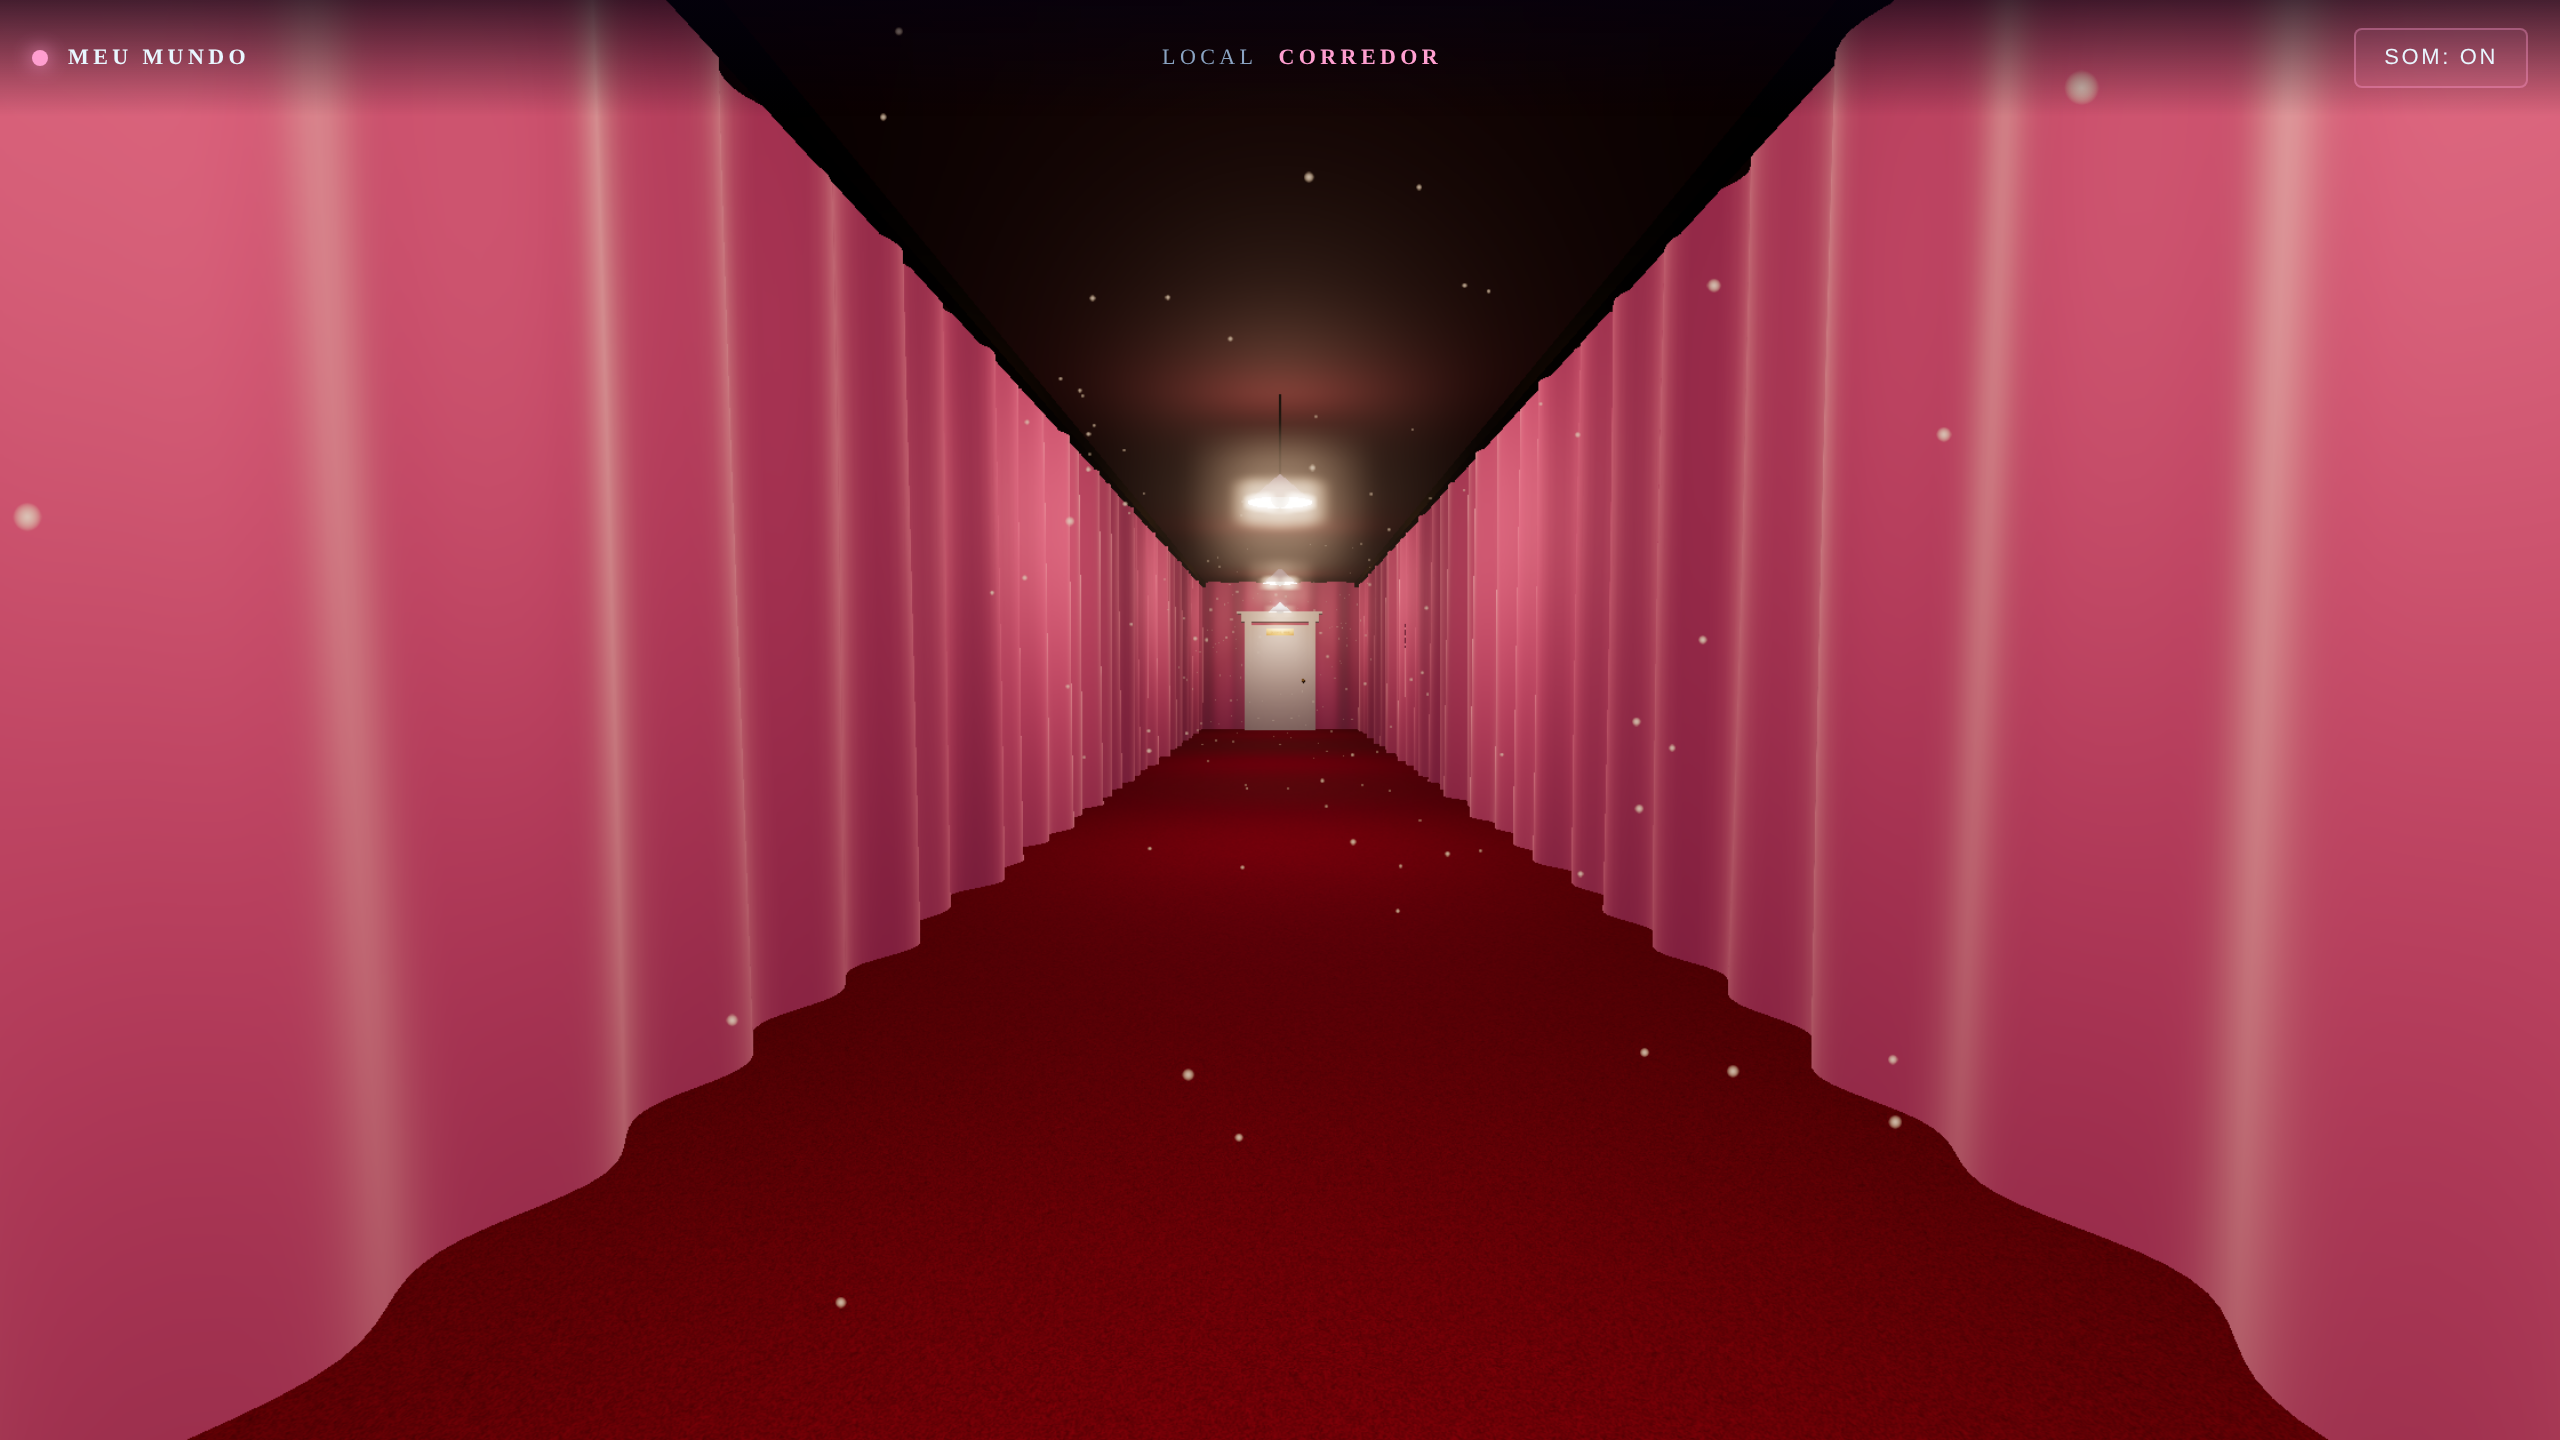
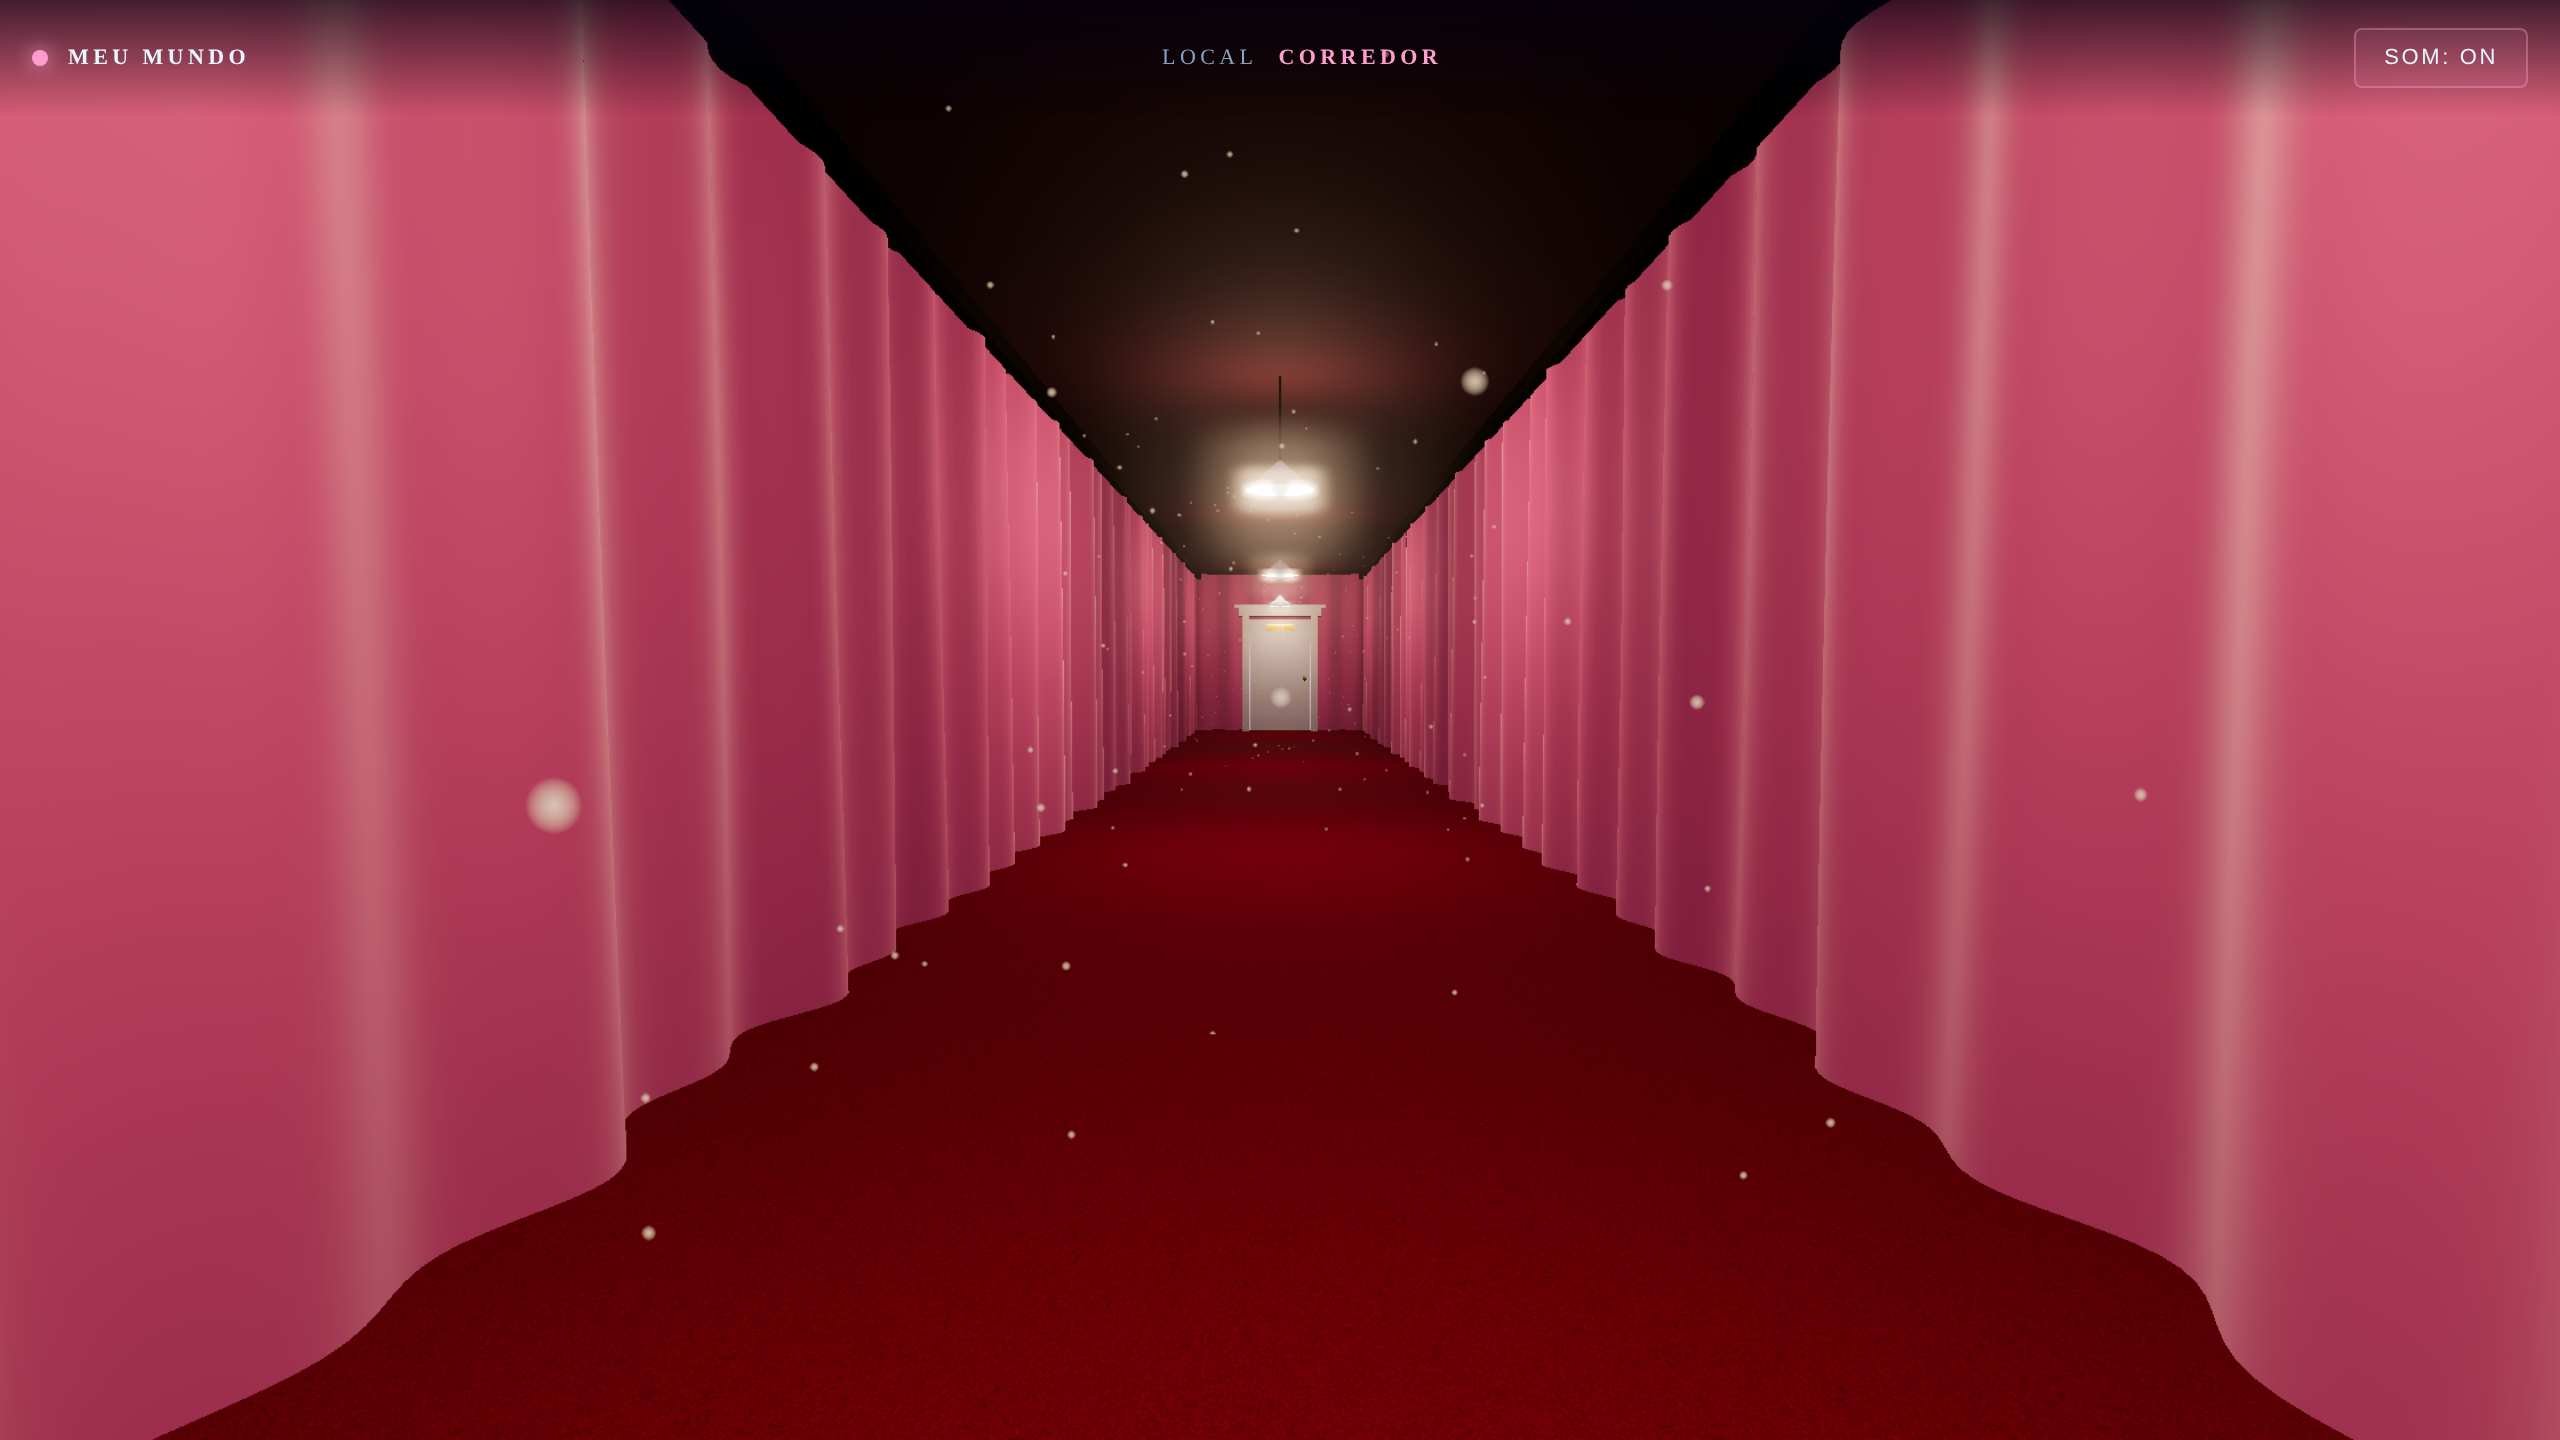
feat: remove a tela de entrada, o site abre direto no corredor
O som começa no primeiro clique ou tecla (exigência dos navegadores).

Claude-Session: https://claude.ai/code/session_01JnNUUXAQNvsX97zff1weQn

diff --git a/js/main.js b/js/main.js
@@ -509,10 +509,6 @@ function buildCorridor() {
   };
 
   w.spawn = { pos: new THREE.Vector3(0, EYE, zStart - 2), yaw: 0 };
-  w.intro = (t) => {
-    camera.position.set(Math.sin(t * 0.25) * 0.5, 1.75 + Math.sin(t * 0.4) * 0.05, zStart - 2 - Math.sin(t * 0.12) * 1.5);
-    camera.lookAt(0, 1.7, zEnd);
-  };
   loadModels(w, cfg.models);
   w.addUpdater((dt) => w.mixers.forEach((m) => m.update(dt)));
   return w;
@@ -1155,9 +1151,6 @@ function frame() {
   if (started) {
     updatePlayer(dt);
     updateHover();
-  } else {
-    // câmera passeando atrás da tela de intro
-    if (current.intro) current.intro(t);
   }
 
   const hd = started ? hoveredDoor() : null;
@@ -1180,38 +1173,31 @@ addEventListener('resize', () => {
 // Início
 // ------------------------------------------------------------
 async function boot() {
-  $('intro-title').textContent = CONFIG.title;
-  $('intro-sub').textContent = CONFIG.subtitle;
   $('hud-title').textContent = CONFIG.title;
   document.title = CONFIG.title.charAt(0) + CONFIG.title.slice(1).toLowerCase();
-  const prog = $('progress');
-  prog.style.width = '25%';
   try {
     await Promise.race([
-      Promise.all([document.fonts.load('900 80px Orbitron'), document.fonts.load('700 80px Orbitron'), document.fonts.load('500 30px "Space Grotesk"')]),
+      Promise.all([document.fonts.load('700 80px Orbitron'), document.fonts.load('500 30px "Space Grotesk"')]),
       new Promise((r) => setTimeout(r, 2500)),
     ]);
   } catch (_) { /* segue sem a fonte */ }
-  prog.style.width = '60%';
   hub = buildCorridor();
   setWorld(hub);
-  // pré-compila shaders
-  renderer.compile(hub.scene, camera);
-  prog.style.width = '100%';
+  renderer.compile(hub.scene, camera); // pré-compila shaders
+  started = true;
+  camera.fov = 90;
   requestAnimationFrame(frame);
+  requestAnimationFrame(() => $('intro').classList.add('gone'));
+  setTimeout(() => ($('hint').style.opacity = '0'), 14000);
 
-  const btn = $('enter');
-  btn.disabled = false;
-  btn.textContent = 'ENTRAR NO MUNDO';
-  btn.addEventListener('click', () => {
+  // o navegador só deixa tocar som depois do primeiro clique/tecla
+  const startSound = () => {
     sfx.init();
-    sfx.whoosh();
-    $('intro').classList.add('gone');
-    started = true;
-    setWorld(hub);
-    camera.fov = 100;
-    setTimeout(() => ($('hint').style.opacity = '0.0'), 14000);
-  });
+    removeEventListener('pointerdown', startSound);
+    removeEventListener('keydown', startSound);
+  };
+  addEventListener('pointerdown', startSound);
+  addEventListener('keydown', startSound);
 }
 
 // Atalhos úteis no console do navegador (ex.: __mundo.goToRoom(0))

diff --git a/css/style.css b/css/style.css
@@ -41,36 +41,13 @@ button {
 button:hover { background: rgba(255, 159, 208, 0.18); box-shadow: 0 0 16px rgba(255, 159, 208, 0.4); border-color: var(--cyan); }
 .hidden { display: none !important; }
 
-/* ---------- Intro ---------- */
+/* ---------- Escurecido inicial ---------- */
 #intro {
-  position: fixed; inset: 0; z-index: 50;
-  display: grid; place-items: center;
-  background:
-    radial-gradient(ellipse at 50% 60%, rgba(255, 59, 107, 0.25), transparent 60%),
-    radial-gradient(ellipse at 50% 120%, rgba(255, 40, 80, 0.25), transparent 60%),
-    var(--bg);
-  transition: opacity 1s ease, visibility 1s;
-  padding: 16px;
+  position: fixed; inset: 0; z-index: 50; pointer-events: none;
+  background: var(--bg);
+  transition: opacity 1.6s ease, visibility 1.6s;
 }
 #intro.gone { opacity: 0; visibility: hidden; }
-.intro-inner { text-align: center; max-width: 560px; width: 100%; }
-.tag { font-family: "Orbitron"; font-size: 11px; color: var(--cyan); letter-spacing: 0.3em; opacity: 0.8; }
-#intro h1 {
-  font-family: "Orbitron"; font-weight: 900;
-  font-size: clamp(38px, 10vw, 84px);
-  letter-spacing: 0.08em; margin: 14px 0 8px;
-  background: linear-gradient(90deg, var(--cyan), var(--violet), var(--pink));
-  -webkit-background-clip: text; background-clip: text; color: transparent;
-  filter: drop-shadow(0 0 24px rgba(255, 159, 208, 0.45));
-}
-.sub { color: var(--muted); font-size: 16px; letter-spacing: 0.05em; }
-.bar { height: 2px; background: rgba(255,255,255,0.08); margin: 36px auto 26px; width: 70%; overflow: hidden; border-radius: 2px; }
-.bar span { display: block; height: 100%; width: 0; background: linear-gradient(90deg, var(--cyan), var(--pink)); box-shadow: 0 0 12px var(--cyan); transition: width 0.3s; }
-#enter { font-size: 14px; padding: 14px 40px; border-color: var(--cyan); }
-#enter:disabled { opacity: 0.5; cursor: wait; }
-#enter:not(:disabled) { animation: pulse 2s infinite; }
-@keyframes pulse { 0%,100% { box-shadow: 0 0 0 rgba(0,240,255,0); } 50% { box-shadow: 0 0 28px rgba(0,240,255,0.6); } }
-.hint-small { margin-top: 18px; font-size: 12px; color: var(--muted); }
 
 /* ---------- HUD ---------- */
 #hud-top {

diff --git a/index.html b/index.html
@@ -22,17 +22,8 @@
 <body>
   <canvas id="scene"></canvas>
 
-  <!-- Tela de entrada -->
-  <div id="intro">
-    <div class="intro-inner">
-      <p class="tag">// conexão estabelecida</p>
-      <h1 id="intro-title">MEU MUNDO</h1>
-      <p id="intro-sub" class="sub">bem-vindo(a) ao meu universo</p>
-      <div class="bar"><span id="progress"></span></div>
-      <button id="enter" disabled>CARREGANDO…</button>
-      <p class="hint-small">Melhor com fone de ouvido 🎧</p>
-    </div>
-  </div>
+  <!-- Escurecido inicial enquanto a cena carrega -->
+  <div id="intro"></div>
 
   <!-- HUD -->
   <header id="hud-top">
